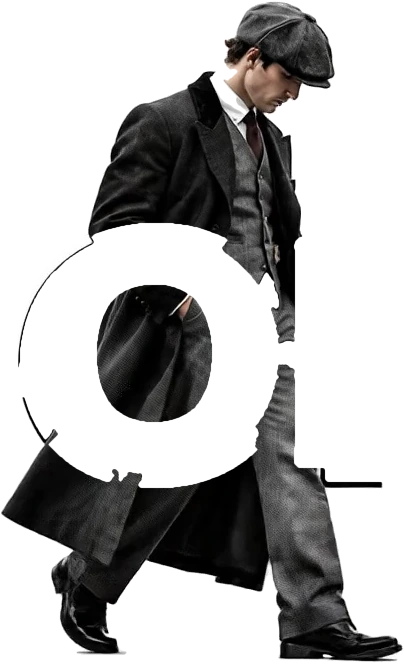
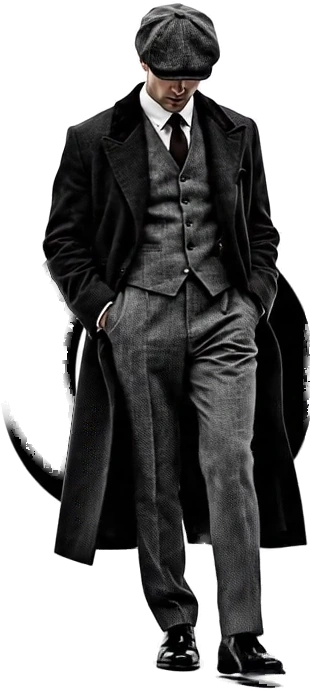
بازسازی انیمیشن هیرو و جداسازی مانکن از نوشته

diff --git a/src/components/home/Hero.jsx b/src/components/home/Hero.jsx
@@ -2,20 +2,19 @@ import { useEffect, useRef } from 'react';
 import { Link } from 'react-router-dom';
 import Icon from '../Icon.jsx';
 import { useStore } from '../../context/StoreContext.jsx';
-import sceneImage from '../../assets/hero/evora-scene.webp';
+import wordmarkImage from '../../assets/hero/evora-wordmark.webp';
 import mannequinImage from '../../assets/hero/evora-mannequin.webp';
 
-// The mannequin was cut out of the studio film and keeps its exact position inside the
-// 16:9 scene, so the two layers stay perfectly registered at every viewport size.
-const MANNEQUIN_BOX = {
-  left: '37.1094%',
-  top: '2.6389%',
-  width: '31.5625%',
-  height: '92.2222%',
-};
+// Scroll-driven 3D stage.
+//   layer 1 — paper background (fixed)
+//   layer 2 — the EVORA wordmark plate (fixed, never transformed)
+//   layer 3 — the cut-out figure, the only element the scroll animates
+// The figure travels down the stage and drifts towards the viewer, so the scroll reads
+// as depth rather than a flat slide. Every value below is a pure function of the scroll
+// progress, which is what makes scrolling back up retrace the motion exactly.
+const MIN_WIDTH_3D = '(min-width: 1024px)';
 
-// Share of the viewport the mannequin travels over the full hero scroll.
-const TRAVEL_RATIO = 0.4;
+const lerp = (from, to, t) => from + (to - from) * t;
 
 export default function Hero() {
   const { settings } = useStore();
@@ -37,40 +36,74 @@ export default function Hero() {
     // Respect the visitor's motion preference: the hero simply holds its first frame.
     if (window.matchMedia('(prefers-reduced-motion: reduce)').matches) return undefined;
 
+    const wide = window.matchMedia(MIN_WIDTH_3D);
+
     let sectionTop = 0;
     let scrollRange = 1;
+    // Vertical travel and forward depth, measured once per layout change.
     let travel = 0;
+    let depth = 0;
+
+    // Scroll position → target progress; the painted progress eases towards it and
+    // settles exactly on it, so the figure stops the moment the page stops scrolling.
+    let painted = 0;
+    let target = 0;
     let frame = 0;
+
+    const paint = (progress) => {
+      const eased = progress * progress * (3 - 2 * progress);
+      const y = progress * travel;
+      const z = eased * depth;
+      const rotateX = lerp(1.8, -1.8, eased);
+      const rotateY = lerp(-3.6, 3.6, eased);
+      const scale = 1 + 0.03 * eased;
+
+      mannequin.style.transform =
+        `translate3d(0, ${y.toFixed(2)}px, ${z.toFixed(2)}px) ` +
+        `rotateX(${rotateX.toFixed(2)}deg) rotateY(${rotateY.toFixed(2)}deg) ` +
+        `scale(${scale.toFixed(4)})`;
+    };
+
+    const tick = () => {
+      const delta = target - painted;
+      if (Math.abs(delta) < 0.0006) {
+        painted = target;
+        paint(painted);
+        frame = 0;
+        return;
+      }
+      painted += delta * 0.14;
+      paint(painted);
+      frame = requestAnimationFrame(tick);
+    };
 
     const measure = () => {
       sectionTop = section.getBoundingClientRect().top + window.scrollY;
       scrollRange = Math.max(1, section.offsetHeight - stage.offsetHeight);
-      travel = stage.offsetHeight * TRAVEL_RATIO;
+      travel = stage.offsetHeight * (wide.matches ? 0.09 : 0.055);
+      depth = wide.matches ? 140 : 90;
     };
 
-    // Scroll position → translateY, 1:1 and reversible, no animation of its own.
-    const paint = () => {
-      frame = 0;
-      const progress = Math.min(1, Math.max(0, (window.scrollY - sectionTop) / scrollRange));
-      mannequin.style.transform = `translate3d(0, ${(progress * travel).toFixed(2)}px, 0)`;
-    };
-
-    const schedule = () => {
-      if (!frame) frame = requestAnimationFrame(paint);
+    const readScroll = () => {
+      target = Math.min(1, Math.max(0, (window.scrollY - sectionTop) / scrollRange));
+      if (!frame) frame = requestAnimationFrame(tick);
     };
 
     const onResize = () => {
       measure();
-      schedule();
+      readScroll();
     };
 
     measure();
-    paint();
-    window.addEventListener('scroll', schedule, { passive: true });
+    target = Math.min(1, Math.max(0, (window.scrollY - sectionTop) / scrollRange));
+    painted = target;
+    paint(painted);
+
+    window.addEventListener('scroll', readScroll, { passive: true });
     window.addEventListener('resize', onResize);
 
     return () => {
-      window.removeEventListener('scroll', schedule);
+      window.removeEventListener('scroll', readScroll);
       window.removeEventListener('resize', onResize);
       if (frame) cancelAnimationFrame(frame);
     };
@@ -78,30 +111,38 @@ export default function Hero() {
 
   return (
     <>
-      <section ref={sectionRef} className="relative h-[240vh] bg-paper">
+      <section ref={sectionRef} className="relative h-[190vh] bg-paper">
         <div ref={stageRef} className="sticky top-0 h-[100svh] overflow-hidden bg-paper">
-          {/* Studio scene (fixed) + mannequin (moves) */}
-          <div className="pointer-events-none absolute left-1/2 top-[60%] aspect-[16/9] w-[max(100vw,150vw)] -translate-x-1/2 -translate-y-1/2 lg:top-1/2 lg:w-[max(100vw,177.78vh)]">
+          {/* Fixed wordmark plate + independently travelling figure */}
+          <div className="pointer-events-none absolute inset-0 z-0 overflow-hidden">
             <img
-              src={sceneImage}
+              src={wordmarkImage}
               alt=""
               aria-hidden="true"
               draggable="false"
               fetchpriority="high"
-              className="absolute inset-0 h-full w-full select-none bg-transparent object-cover"
+              className="absolute left-1/2 top-[66svh] w-[94vw] max-w-[1800px] -translate-x-1/2 -translate-y-1/2 select-none lg:top-1/2 lg:w-[96vw]"
             />
-            <img
-              ref={mannequinRef}
-              src={mannequinImage}
-              alt="Mannequin wearing a charcoal tweed three-piece suit, wool overcoat and flat cap"
-              draggable="false"
-              style={MANNEQUIN_BOX}
-              className="absolute select-none bg-transparent will-change-transform"
-            />
+
+            <div className="absolute bottom-[10svh] left-1/2 h-[40svh] aspect-[313/691] -translate-x-1/2 lg:bottom-auto lg:top-[52%] lg:h-[min(52vw,68svh)] lg:-translate-y-1/2">
+              <div
+                className="h-full w-full"
+                style={{ perspective: '1600px', perspectiveOrigin: '50% 45%', transformStyle: 'preserve-3d' }}
+              >
+                <img
+                  ref={mannequinRef}
+                  src={mannequinImage}
+                  alt="Man in a charcoal tweed three-piece suit, wool overcoat and flat cap"
+                  draggable="false"
+                  className="h-full w-full select-none [filter:drop-shadow(0_24px_44px_rgba(17,17,17,0.18))] will-change-transform"
+                  style={{ transformStyle: 'preserve-3d', transformOrigin: '50% 55%' }}
+                />
+              </div>
+            </div>
           </div>
 
           {/* Mobile composition */}
-          <div className="pointer-events-none absolute inset-0 lg:hidden">
+          <div className="pointer-events-none absolute inset-0 z-10 lg:hidden">
             <div className="shell flex h-full flex-col justify-between pb-7 pt-6">
               <div>
                 <div className="flex items-center gap-3">
@@ -138,7 +179,7 @@ export default function Hero() {
           </div>
 
           {/* Desktop composition */}
-          <div className="pointer-events-none absolute inset-0 hidden lg:block">
+          <div className="pointer-events-none absolute inset-0 z-10 hidden lg:block">
             <div className="shell flex h-full flex-col justify-between py-12">
               <div className="flex items-start justify-between gap-8">
                 <div className="max-w-[300px] border-y border-ink/20 py-4">
